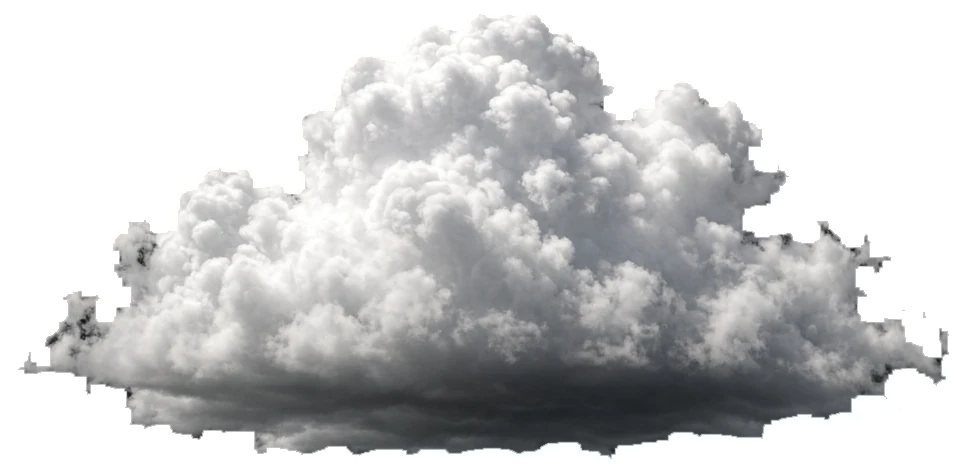
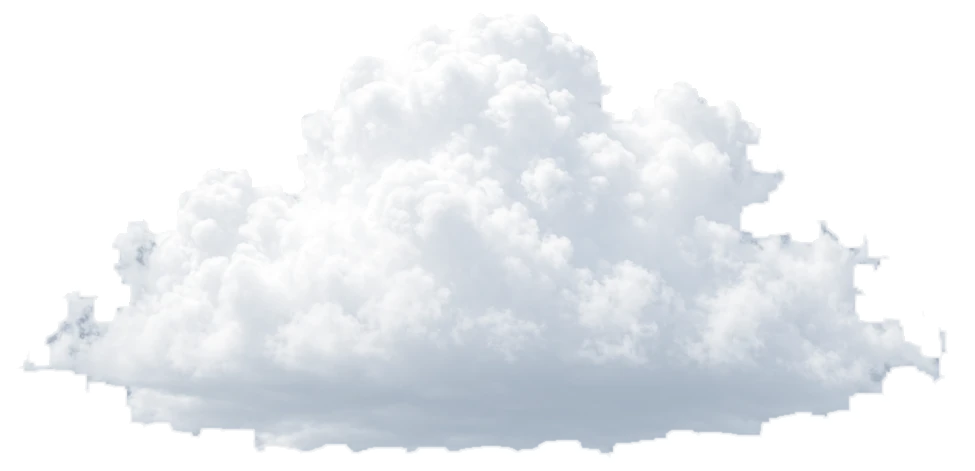
r40: clean day-cloud edges, clouds in front of the moon
Lift and blue-tint the cumulus sprite shadows so undersides are soft
blue-grey rather than charcoal, and choke the alpha edge so dark rims
drop out. In day mode the clouds pass in front of a slightly paler
moon. The odd wisp sprite is removed.

diff --git a/css/sky-scene.css b/css/sky-scene.css
@@ -216,7 +216,8 @@ html { --sky-fade-bottom: -2000px; }
     #000 100%
   );
 }
-html.is-day .day-clouds { opacity: 1; }
+html.is-day .day-clouds { opacity: 1; z-index: 3; } /* in front of the moon */
+html.is-day .realMoon-track { z-index: 2; }
 .day-clouds .media-ph { display: none !important; }
 
 .cloud-item {
@@ -504,7 +505,7 @@ html.is-day body.backNight .realMoon-container {
   background-size: cover;
   background-position: center;
   filter: none;
-  opacity: 0.9;
+  opacity: 0.72;
   mix-blend-mode: normal;
   box-shadow: none;
   -webkit-clip-path: none;

diff --git a/index.php b/index.php
@@ -55,124 +55,112 @@ $page_scripts = '<script src="/js/sky.js?v=r14" defer></script>' . "\n" . '<scri
   <div class="cloudsLightTwo noOpac" aria-hidden="true"></div>
   <div class="day-clouds" aria-hidden="true">
     <div class="cloud-item" style="top:4vh;width:42vw;--dur:48s;--delay:-10s;--sx:1;opacity:0.95;">
-      <img src="<?php echo site_h(site_asset('/Img/clouds/photo-a.webp')); ?>" width="959" height="485" alt="" decoding="async" draggable="false">
+      <img src="<?php echo site_h(site_asset('/Img/clouds/photo-a.webp')); ?>" width="954" height="483" alt="" decoding="async" draggable="false">
     </div>
     <div class="cloud-item is-flip" style="top:8vh;width:22vw;--dur:62s;--delay:-22s;--sx:-1;opacity:0.88;">
-      <img src="<?php echo site_h(site_asset('/Img/clouds/photo-e.webp')); ?>" width="1130" height="425" alt="" decoding="async" draggable="false">
+      <img src="<?php echo site_h(site_asset('/Img/clouds/photo-e.webp')); ?>" width="1126" height="423" alt="" decoding="async" draggable="false">
     </div>
     <div class="cloud-item" style="top:18vh;width:16vw;--dur:40s;--delay:-5s;--sx:1;opacity:0.9;">
-      <img src="<?php echo site_h(site_asset('/Img/clouds/photo-h.webp')); ?>" width="978" height="473" alt="" decoding="async" draggable="false">
+      <img src="<?php echo site_h(site_asset('/Img/clouds/photo-h.webp')); ?>" width="975" height="471" alt="" decoding="async" draggable="false">
     </div>
     <div class="cloud-item" style="top:2vh;width:28vw;--dur:55s;--delay:-33s;--sx:1;opacity:0.86;">
-      <img src="<?php echo site_h(site_asset('/Img/clouds/photo-c.webp')); ?>" width="680" height="725" alt="" decoding="async" draggable="false">
+      <img src="<?php echo site_h(site_asset('/Img/clouds/photo-c.webp')); ?>" width="671" height="722" alt="" decoding="async" draggable="false">
     </div>
     <div class="cloud-item is-flip" style="top:52vh;width:36vw;--dur:52s;--delay:-18s;--sx:-1;opacity:0.92;">
-      <img src="<?php echo site_h(site_asset('/Img/clouds/photo-b.webp')); ?>" width="1002" height="424" alt="" decoding="async" draggable="false">
+      <img src="<?php echo site_h(site_asset('/Img/clouds/photo-b.webp')); ?>" width="997" height="422" alt="" decoding="async" draggable="false">
     </div>
     <div class="cloud-item" style="top:68vh;width:24vw;--dur:44s;--delay:-2s;--sx:1;opacity:0.88;">
-      <img src="<?php echo site_h(site_asset('/Img/clouds/photo-f.webp')); ?>" width="785" height="416" alt="" decoding="async" draggable="false">
+      <img src="<?php echo site_h(site_asset('/Img/clouds/photo-f.webp')); ?>" width="781" height="413" alt="" decoding="async" draggable="false">
     </div>
     <div class="cloud-item is-flip" style="top:78vh;width:14vw;--dur:70s;--delay:-40s;--sx:-1;opacity:0.8;">
-      <img src="<?php echo site_h(site_asset('/Img/clouds/photo-h.webp')); ?>" width="978" height="473" alt="" decoding="async" draggable="false">
+      <img src="<?php echo site_h(site_asset('/Img/clouds/photo-h.webp')); ?>" width="975" height="471" alt="" decoding="async" draggable="false">
     </div>
     <div class="cloud-item" style="top:110vh;width:48vw;--dur:58s;--delay:-14s;--sx:1;opacity:0.94;">
-      <img src="<?php echo site_h(site_asset('/Img/clouds/photo-d.webp')); ?>" width="732" height="491" alt="" decoding="async" draggable="false">
+      <img src="<?php echo site_h(site_asset('/Img/clouds/photo-d.webp')); ?>" width="728" height="488" alt="" decoding="async" draggable="false">
     </div>
     <div class="cloud-item is-flip" style="top:122vh;width:30vw;--dur:46s;--delay:-28s;--sx:-1;opacity:0.9;">
-      <img src="<?php echo site_h(site_asset('/Img/clouds/photo-a.webp')); ?>" width="959" height="485" alt="" decoding="async" draggable="false">
+      <img src="<?php echo site_h(site_asset('/Img/clouds/photo-a.webp')); ?>" width="954" height="483" alt="" decoding="async" draggable="false">
     </div>
     <div class="cloud-item" style="top:138vh;width:18vw;--dur:38s;--delay:-8s;--sx:1;opacity:0.85;">
-      <img src="<?php echo site_h(site_asset('/Img/clouds/photo-e.webp')); ?>" width="1130" height="425" alt="" decoding="async" draggable="false">
+      <img src="<?php echo site_h(site_asset('/Img/clouds/photo-e.webp')); ?>" width="1126" height="423" alt="" decoding="async" draggable="false">
     </div>
     <div class="cloud-item is-flip" style="top:148vh;width:26vw;--dur:64s;--delay:-36s;--sx:-1;opacity:0.88;">
-      <img src="<?php echo site_h(site_asset('/Img/clouds/photo-c.webp')); ?>" width="680" height="725" alt="" decoding="async" draggable="false">
+      <img src="<?php echo site_h(site_asset('/Img/clouds/photo-c.webp')); ?>" width="671" height="722" alt="" decoding="async" draggable="false">
     </div>
     <div class="cloud-item" style="top:190vh;width:15vw;--dur:50s;--delay:-12s;--sx:1;opacity:0.8;">
-      <img src="<?php echo site_h(site_asset('/Img/clouds/photo-h.webp')); ?>" width="978" height="473" alt="" decoding="async" draggable="false">
-    </div>
-    <div class="cloud-item" style="top:215vh;width:34vw;--dur:60s;--delay:-24s;--sx:1;opacity:0.9;">
-      <img src="<?php echo site_h(site_asset('/Img/clouds/photo-g.webp')); ?>" width="658" height="287" alt="" decoding="async" draggable="false">
+      <img src="<?php echo site_h(site_asset('/Img/clouds/photo-h.webp')); ?>" width="975" height="471" alt="" decoding="async" draggable="false">
     </div>
     <div class="cloud-item is-flip" style="top:250vh;width:40vw;--dur:42s;--delay:-6s;--sx:-1;opacity:0.93;">
-      <img src="<?php echo site_h(site_asset('/Img/clouds/photo-b.webp')); ?>" width="1002" height="424" alt="" decoding="async" draggable="false">
+      <img src="<?php echo site_h(site_asset('/Img/clouds/photo-b.webp')); ?>" width="997" height="422" alt="" decoding="async" draggable="false">
     </div>
     <div class="cloud-item" style="top:262vh;width:22vw;--dur:54s;--delay:-30s;--sx:1;opacity:0.86;">
-      <img src="<?php echo site_h(site_asset('/Img/clouds/photo-f.webp')); ?>" width="785" height="416" alt="" decoding="async" draggable="false">
+      <img src="<?php echo site_h(site_asset('/Img/clouds/photo-f.webp')); ?>" width="781" height="413" alt="" decoding="async" draggable="false">
     </div>
     <div class="cloud-item" style="top:280vh;width:32vw;--dur:47s;--delay:-16s;--sx:1;opacity:0.9;">
-      <img src="<?php echo site_h(site_asset('/Img/clouds/photo-a.webp')); ?>" width="959" height="485" alt="" decoding="async" draggable="false">
+      <img src="<?php echo site_h(site_asset('/Img/clouds/photo-a.webp')); ?>" width="954" height="483" alt="" decoding="async" draggable="false">
     </div>
     <div class="cloud-item is-flip" style="top:298vh;width:20vw;--dur:36s;--delay:-3s;--sx:-1;opacity:0.84;">
-      <img src="<?php echo site_h(site_asset('/Img/clouds/photo-e.webp')); ?>" width="1130" height="425" alt="" decoding="async" draggable="false">
+      <img src="<?php echo site_h(site_asset('/Img/clouds/photo-e.webp')); ?>" width="1126" height="423" alt="" decoding="async" draggable="false">
     </div>
     <div class="cloud-item" style="top:320vh;width:28vw;--dur:68s;--delay:-44s;--sx:1;opacity:0.88;">
-      <img src="<?php echo site_h(site_asset('/Img/clouds/photo-c.webp')); ?>" width="680" height="725" alt="" decoding="async" draggable="false">
+      <img src="<?php echo site_h(site_asset('/Img/clouds/photo-c.webp')); ?>" width="671" height="722" alt="" decoding="async" draggable="false">
     </div>
     <div class="cloud-item is-flip" style="top:370vh;width:13vw;--dur:58s;--delay:-20s;--sx:-1;opacity:0.78;">
-      <img src="<?php echo site_h(site_asset('/Img/clouds/photo-h.webp')); ?>" width="978" height="473" alt="" decoding="async" draggable="false">
+      <img src="<?php echo site_h(site_asset('/Img/clouds/photo-h.webp')); ?>" width="975" height="471" alt="" decoding="async" draggable="false">
     </div>
     <div class="cloud-item is-flip" style="top:410vh;width:44vw;--dur:50s;--delay:-11s;--sx:-1;opacity:0.92;">
-      <img src="<?php echo site_h(site_asset('/Img/clouds/photo-d.webp')); ?>" width="732" height="491" alt="" decoding="async" draggable="false">
-    </div>
-    <div class="cloud-item" style="top:428vh;width:26vw;--dur:43s;--delay:-27s;--sx:1;opacity:0.87;">
-      <img src="<?php echo site_h(site_asset('/Img/clouds/photo-g.webp')); ?>" width="658" height="287" alt="" decoding="async" draggable="false">
+      <img src="<?php echo site_h(site_asset('/Img/clouds/photo-d.webp')); ?>" width="728" height="488" alt="" decoding="async" draggable="false">
     </div>
     <div class="cloud-item" style="top:455vh;width:36vw;--dur:56s;--delay:-9s;--sx:1;opacity:0.9;">
-      <img src="<?php echo site_h(site_asset('/Img/clouds/photo-b.webp')); ?>" width="1002" height="424" alt="" decoding="async" draggable="false">
+      <img src="<?php echo site_h(site_asset('/Img/clouds/photo-b.webp')); ?>" width="997" height="422" alt="" decoding="async" draggable="false">
     </div>
     <div class="cloud-item is-flip" style="top:478vh;width:18vw;--dur:39s;--delay:-19s;--sx:-1;opacity:0.84;">
-      <img src="<?php echo site_h(site_asset('/Img/clouds/photo-f.webp')); ?>" width="785" height="416" alt="" decoding="async" draggable="false">
+      <img src="<?php echo site_h(site_asset('/Img/clouds/photo-f.webp')); ?>" width="781" height="413" alt="" decoding="async" draggable="false">
     </div>
     <div class="cloud-item is-flip" style="top:510vh;width:40vw;--dur:61s;--delay:-35s;--sx:-1;opacity:0.93;">
-      <img src="<?php echo site_h(site_asset('/Img/clouds/photo-a.webp')); ?>" width="959" height="485" alt="" decoding="async" draggable="false">
+      <img src="<?php echo site_h(site_asset('/Img/clouds/photo-a.webp')); ?>" width="954" height="483" alt="" decoding="async" draggable="false">
     </div>
     <div class="cloud-item" style="top:528vh;width:16vw;--dur:45s;--delay:-7s;--sx:1;opacity:0.82;">
-      <img src="<?php echo site_h(site_asset('/Img/clouds/photo-e.webp')); ?>" width="1130" height="425" alt="" decoding="async" draggable="false">
+      <img src="<?php echo site_h(site_asset('/Img/clouds/photo-e.webp')); ?>" width="1126" height="423" alt="" decoding="async" draggable="false">
     </div>
     <div class="cloud-item is-flip" style="top:560vh;width:30vw;--dur:52s;--delay:-21s;--sx:-1;opacity:0.88;">
-      <img src="<?php echo site_h(site_asset('/Img/clouds/photo-c.webp')); ?>" width="680" height="725" alt="" decoding="async" draggable="false">
+      <img src="<?php echo site_h(site_asset('/Img/clouds/photo-c.webp')); ?>" width="671" height="722" alt="" decoding="async" draggable="false">
     </div>
     <div class="cloud-item" style="top:590vh;width:14vw;--dur:41s;--delay:-13s;--sx:1;opacity:0.8;">
-      <img src="<?php echo site_h(site_asset('/Img/clouds/photo-h.webp')); ?>" width="978" height="473" alt="" decoding="async" draggable="false">
+      <img src="<?php echo site_h(site_asset('/Img/clouds/photo-h.webp')); ?>" width="975" height="471" alt="" decoding="async" draggable="false">
     </div>
     <div class="cloud-item" style="top:640vh;width:38vw;--dur:49s;--delay:-17s;--sx:1;opacity:0.9;">
-      <img src="<?php echo site_h(site_asset('/Img/clouds/photo-d.webp')); ?>" width="732" height="491" alt="" decoding="async" draggable="false">
-    </div>
-    <div class="cloud-item is-flip" style="top:668vh;width:24vw;--dur:57s;--delay:-29s;--sx:-1;opacity:0.86;">
-      <img src="<?php echo site_h(site_asset('/Img/clouds/photo-g.webp')); ?>" width="658" height="287" alt="" decoding="async" draggable="false">
+      <img src="<?php echo site_h(site_asset('/Img/clouds/photo-d.webp')); ?>" width="728" height="488" alt="" decoding="async" draggable="false">
     </div>
     <div class="cloud-item" style="top:700vh;width:34vw;--dur:44s;--delay:-4s;--sx:1;opacity:0.9;">
-      <img src="<?php echo site_h(site_asset('/Img/clouds/photo-b.webp')); ?>" width="1002" height="424" alt="" decoding="async" draggable="false">
+      <img src="<?php echo site_h(site_asset('/Img/clouds/photo-b.webp')); ?>" width="997" height="422" alt="" decoding="async" draggable="false">
     </div>
     <div class="cloud-item is-flip" style="top:730vh;width:28vw;--dur:63s;--delay:-38s;--sx:-1;opacity:0.88;">
-      <img src="<?php echo site_h(site_asset('/Img/clouds/photo-a.webp')); ?>" width="959" height="485" alt="" decoding="async" draggable="false">
+      <img src="<?php echo site_h(site_asset('/Img/clouds/photo-a.webp')); ?>" width="954" height="483" alt="" decoding="async" draggable="false">
     </div>
     <div class="cloud-item" style="top:760vh;width:20vw;--dur:40s;--delay:-15s;--sx:1;opacity:0.84;">
-      <img src="<?php echo site_h(site_asset('/Img/clouds/photo-f.webp')); ?>" width="785" height="416" alt="" decoding="async" draggable="false">
+      <img src="<?php echo site_h(site_asset('/Img/clouds/photo-f.webp')); ?>" width="781" height="413" alt="" decoding="async" draggable="false">
     </div>
     <div class="cloud-item is-flip" style="top:800vh;width:22vw;--dur:53s;--delay:-25s;--sx:-1;opacity:0.86;">
-      <img src="<?php echo site_h(site_asset('/Img/clouds/photo-e.webp')); ?>" width="1130" height="425" alt="" decoding="async" draggable="false">
+      <img src="<?php echo site_h(site_asset('/Img/clouds/photo-e.webp')); ?>" width="1126" height="423" alt="" decoding="async" draggable="false">
     </div>
     <div class="cloud-item" style="top:840vh;width:32vw;--dur:46s;--delay:-8s;--sx:1;opacity:0.9;">
-      <img src="<?php echo site_h(site_asset('/Img/clouds/photo-c.webp')); ?>" width="680" height="725" alt="" decoding="async" draggable="false">
+      <img src="<?php echo site_h(site_asset('/Img/clouds/photo-c.webp')); ?>" width="671" height="722" alt="" decoding="async" draggable="false">
     </div>
     <div class="cloud-item is-flip" style="top:880vh;width:15vw;--dur:59s;--delay:-32s;--sx:-1;opacity:0.8;">
-      <img src="<?php echo site_h(site_asset('/Img/clouds/photo-h.webp')); ?>" width="978" height="473" alt="" decoding="async" draggable="false">
+      <img src="<?php echo site_h(site_asset('/Img/clouds/photo-h.webp')); ?>" width="975" height="471" alt="" decoding="async" draggable="false">
     </div>
     <div class="cloud-item" style="top:930vh;width:40vw;--dur:51s;--delay:-12s;--sx:1;opacity:0.92;">
-      <img src="<?php echo site_h(site_asset('/Img/clouds/photo-d.webp')); ?>" width="732" height="491" alt="" decoding="async" draggable="false">
-    </div>
-    <div class="cloud-item" style="top:980vh;width:26vw;--dur:37s;--delay:-1s;--sx:1;opacity:0.87;">
-      <img src="<?php echo site_h(site_asset('/Img/clouds/photo-g.webp')); ?>" width="658" height="287" alt="" decoding="async" draggable="false">
+      <img src="<?php echo site_h(site_asset('/Img/clouds/photo-d.webp')); ?>" width="728" height="488" alt="" decoding="async" draggable="false">
     </div>
     <div class="cloud-item is-flip" style="top:1040vh;width:34vw;--dur:55s;--delay:-23s;--sx:-1;opacity:0.9;">
-      <img src="<?php echo site_h(site_asset('/Img/clouds/photo-b.webp')); ?>" width="1002" height="424" alt="" decoding="async" draggable="false">
+      <img src="<?php echo site_h(site_asset('/Img/clouds/photo-b.webp')); ?>" width="997" height="422" alt="" decoding="async" draggable="false">
     </div>
     <div class="cloud-item" style="top:1100vh;width:30vw;--dur:48s;--delay:-18s;--sx:1;opacity:0.88;">
-      <img src="<?php echo site_h(site_asset('/Img/clouds/photo-a.webp')); ?>" width="959" height="485" alt="" decoding="async" draggable="false">
+      <img src="<?php echo site_h(site_asset('/Img/clouds/photo-a.webp')); ?>" width="954" height="483" alt="" decoding="async" draggable="false">
     </div>
     <div class="cloud-item is-flip" style="top:1160vh;width:18vw;--dur:42s;--delay:-6s;--sx:-1;opacity:0.84;">
-      <img src="<?php echo site_h(site_asset('/Img/clouds/photo-f.webp')); ?>" width="785" height="416" alt="" decoding="async" draggable="false">
+      <img src="<?php echo site_h(site_asset('/Img/clouds/photo-f.webp')); ?>" width="781" height="413" alt="" decoding="async" draggable="false">
     </div>
   </div>
   <div class="realMoon-track" aria-hidden="true">

diff --git a/CREDITS.md b/CREDITS.md
@@ -13,10 +13,10 @@ The earlier cut-out photographs of the Auckland CBD (day: DXR, CC BY-SA 4.0; nig
 
 ## Day clouds
 
-- **Files:** `Img/clouds/photo-a.webp` through `photo-h.webp`
+- **Files:** `Img/clouds/photo-a.webp` through `photo-f.webp`, and `photo-h.webp`
 - **Author:** Original photoreal cloud sprites created for Soffit Web
 - **Licence:** All rights reserved to Soffit Web; made for this site
-- **Notes:** Eight isolated fair-weather cumulus photographs of varied shape and size (towering, medium, small, flat-bottomed, and a thin wisp) were keyed from a black backdrop (luminance-to-alpha, unpremultiplied edges) and are placed many times down the day sky. They drift horizontally at different speeds, in mixed sizes, clusters and clearer stretches. They replaced the earlier vector cloud drawings and the stacked day-sky photographs (Rise DHMN, CC BY 4.0; Defi22, CC BY-SA 4.0; ADARSHluck, CC BY-SA 4.0), which are no longer used on the page.
+- **Notes:** Seven isolated fair-weather cumulus photographs of varied shape and size (towering, medium, small, and flat-bottomed) were keyed from a black backdrop (luminance-to-alpha, unpremultiplied edges) and are placed many times down the day sky. They drift horizontally at different speeds, in mixed sizes, clusters and clearer stretches. They replaced the earlier vector cloud drawings and the stacked day-sky photographs (Rise DHMN, CC BY 4.0; Defi22, CC BY-SA 4.0; ADARSHluck, CC BY-SA 4.0), which are no longer used on the page.
 
 ## Moon
 
